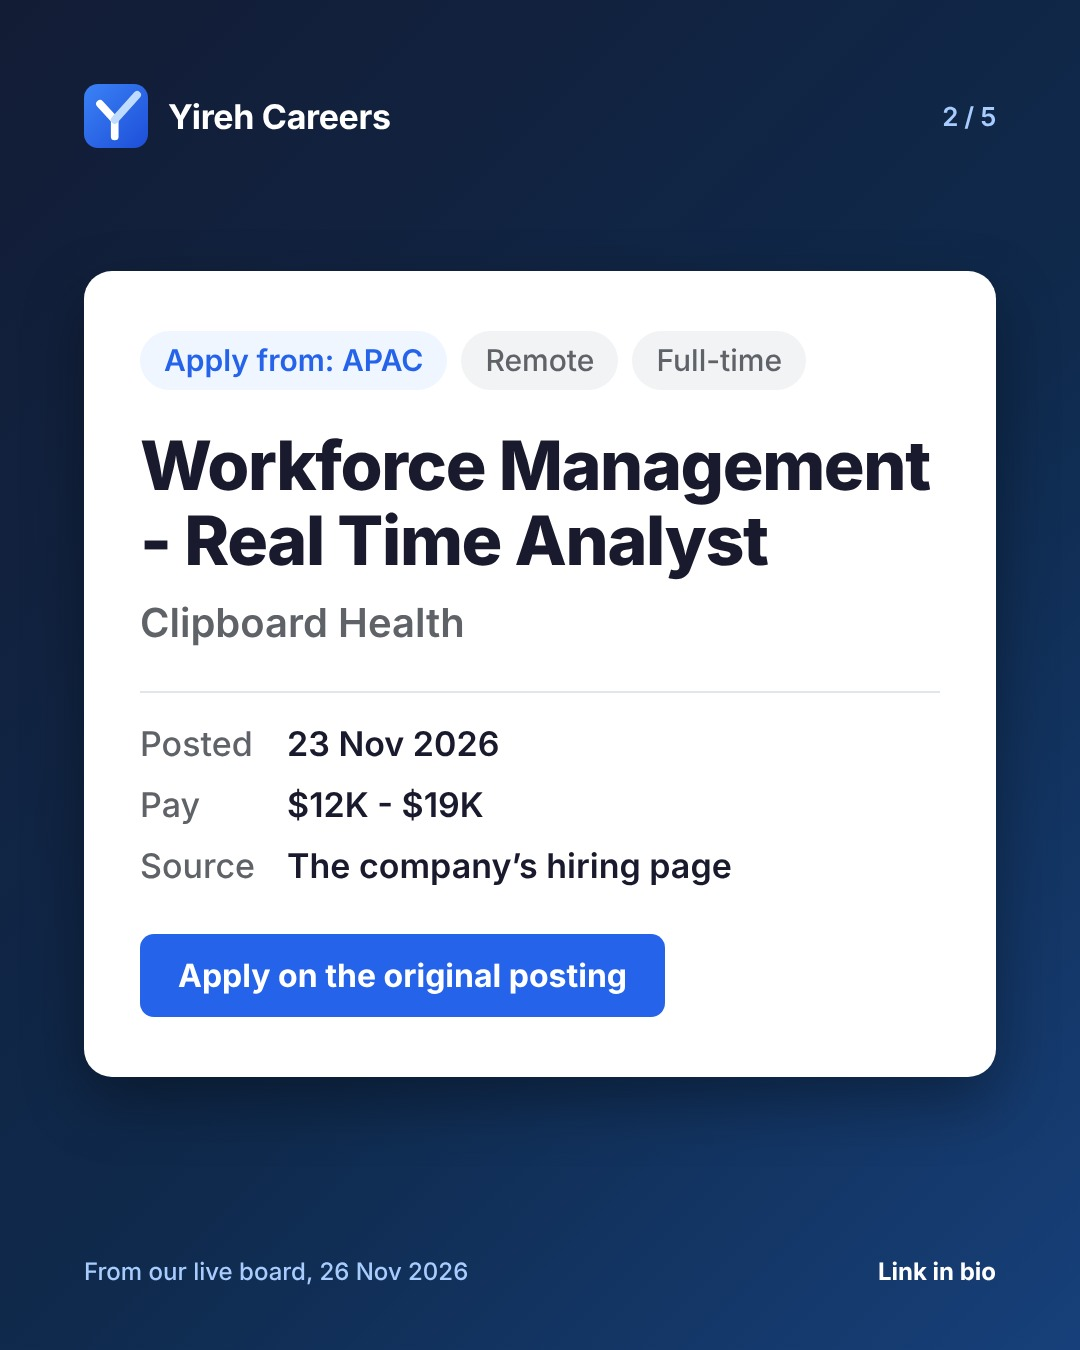
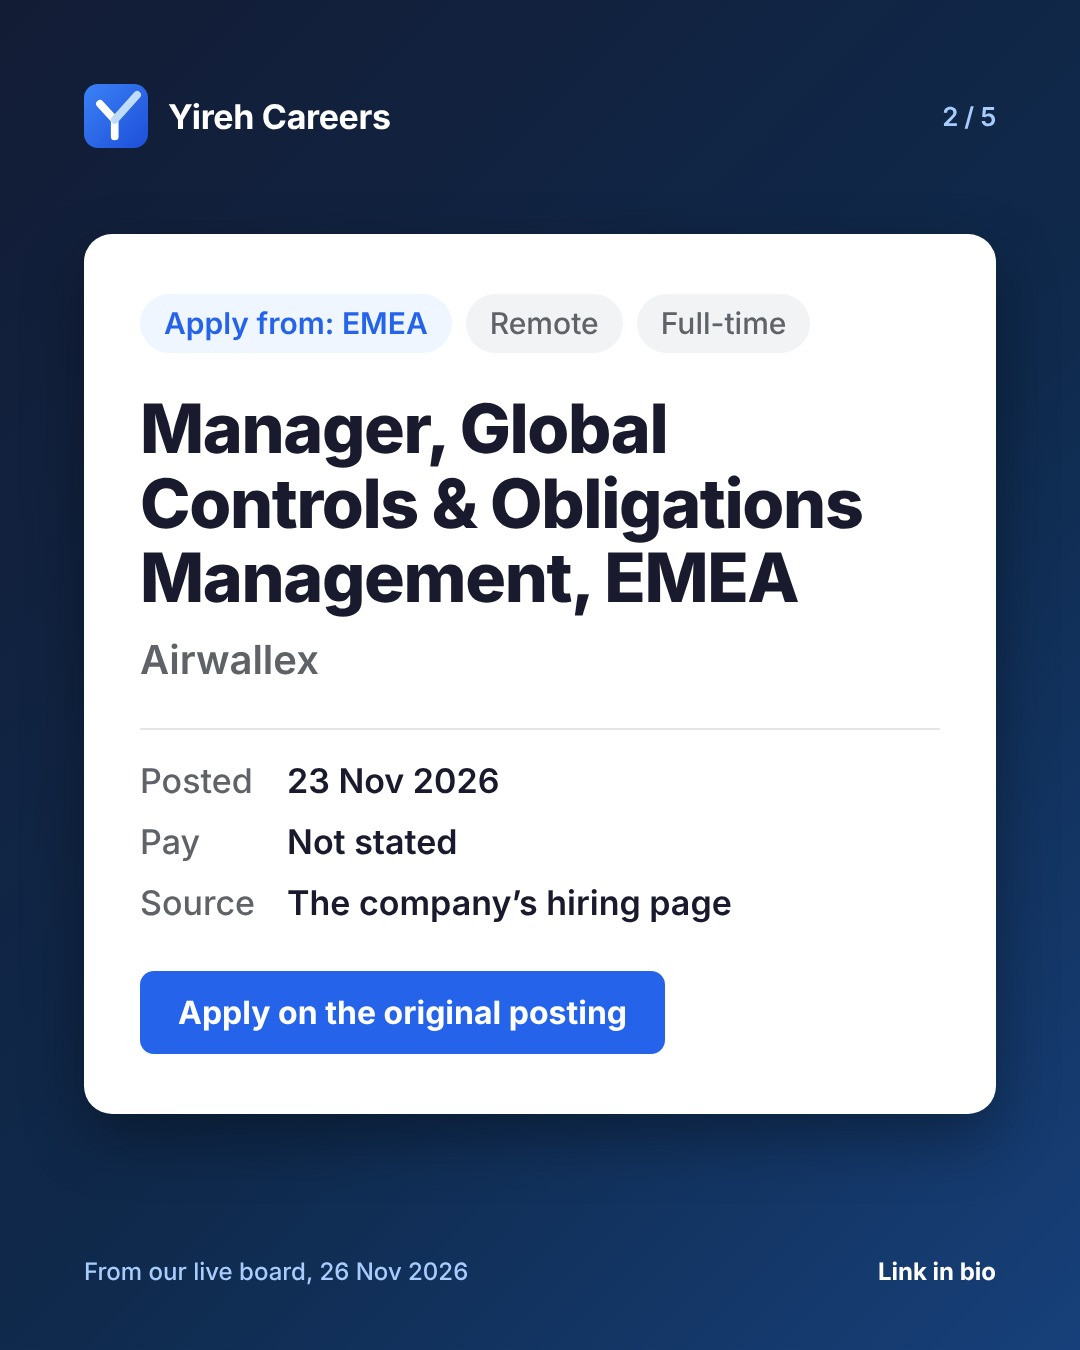
Social: after PRs 81-83 went live, lift exclusions and re-measure
- All four excluded jobs are fixed on the live feed (2 removed, Netlify
  'Location not specified', Canonical 'United States only'); exclusions lifted
- Calendar numbers re-measured 26 Nov 13:32 UTC: 36 open worldwide; the
  one-country share is now 1,225 of 1,987 ('about six in ten', was three in four)
- Supply notes updated (Canada 369 ... Indonesia 47)
- verify-open falls back to a plain page load when a page never goes quiet
- Week 1 re-rendered; 7 of 7 featured postings open

Claude-Session: https://claude.ai/code/session_01Q41EjuZWPZfwQtakLZ2AMt

Changed region(s): [[0.0611, 0.1556, 0.9472, 0.4978], [0.0611, 0.5289, 0.9472, 0.84]]

diff --git a/social/tools/verify-open.js b/social/tools/verify-open.js
@@ -30,7 +30,10 @@ const words = t => t.toLowerCase().replace(/[^a-z0-9 ]+/g, ' ').split(/\s+/).fil
       const page = await ctx.newPage();
       let check = { checked_open_on: today, ok: false };
       try {
-        const resp = await page.goto(j.sourceUrl, { waitUntil: 'networkidle', timeout: 45000 });
+        // Some hiring pages never go quiet (chat widgets, trackers): fall back to a plain page load.
+        let resp;
+        try { resp = await page.goto(j.sourceUrl, { waitUntil: 'networkidle', timeout: 30000 }); }
+        catch (e) { resp = await page.goto(j.sourceUrl, { waitUntil: 'domcontentloaded', timeout: 45000 }); await page.waitForTimeout(4000); }
         await page.waitForTimeout(1500);
         const text = (await page.innerText('body')).replace(/\s+/g, ' ');
         const need = words(j.title);

diff --git a/social/calendar/2026-12-01.md b/social/calendar/2026-12-01.md
@@ -35,7 +35,7 @@ Bio link (one per platform, so per-post clicks cannot be told apart): `https://y
 > So you don't spend an hour on one you can't apply for.
 > Link in bio.
 
-**On screen:** “Stop paying to look at remote jobs” / “Free to search · no account” / “Only the jobs open to where you live” / “19 open to applicants anywhere” / “From our live board, 26 Nov 2026” / “Link in bio” / “AI-generated presenter”
+**On screen:** “Stop paying to look at remote jobs” / “Free to search · no account” / “Only the jobs open to where you live” / “36 open to applicants anywhere” / “From our live board, 26 Nov 2026” / “Link in bio” / “AI-generated presenter”
 
 **Caption:**
 
@@ -66,7 +66,7 @@ Bio link (one per platform, so per-post clicks cannot be told apart): `https://y
 2. 3 role card(s) picked on the day from the live feed
 3. (cta) Find yours on the board — Type where you live and see only the jobs open to you.
 
-**Preview rendered 2026-11-26 12:53 UTC** (re-rendered on the post day): [`01.jpg`](../output/2026-12-02/w49-p2/01.jpg), [`02.jpg`](../output/2026-12-02/w49-p2/02.jpg), [`03.jpg`](../output/2026-12-02/w49-p2/03.jpg), [`04.jpg`](../output/2026-12-02/w49-p2/04.jpg), [`05.jpg`](../output/2026-12-02/w49-p2/05.jpg)
+**Preview rendered 2026-11-26 13:32 UTC** (re-rendered on the post day): [`01.jpg`](../output/2026-12-02/w49-p2/01.jpg), [`02.jpg`](../output/2026-12-02/w49-p2/02.jpg), [`03.jpg`](../output/2026-12-02/w49-p2/03.jpg), [`04.jpg`](../output/2026-12-02/w49-p2/04.jpg), [`05.jpg`](../output/2026-12-02/w49-p2/05.jpg)
 
 | Role in the preview | Company | Apply from | Posted | Pay | Posting open? |
 |---|---|---|---|---|---|
@@ -103,7 +103,7 @@ Bio link (one per platform, so per-post clicks cannot be told apart): `https://y
 4. (tip) Not clear? Ask first — Email the recruiter before you spend an hour on the form.
 5. (cta) Or start with the board — Tell it where you live — It shows only the jobs that say they're open to you.
 
-**Preview rendered 2026-11-26 12:53 UTC** (re-rendered on the post day): [`01.jpg`](../output/2026-12-03/w49-p3/01.jpg), [`02.jpg`](../output/2026-12-03/w49-p3/02.jpg), [`03.jpg`](../output/2026-12-03/w49-p3/03.jpg), [`04.jpg`](../output/2026-12-03/w49-p3/04.jpg), [`05.jpg`](../output/2026-12-03/w49-p3/05.jpg)
+**Preview rendered 2026-11-26 13:32 UTC** (re-rendered on the post day): [`01.jpg`](../output/2026-12-03/w49-p3/01.jpg), [`02.jpg`](../output/2026-12-03/w49-p3/02.jpg), [`03.jpg`](../output/2026-12-03/w49-p3/03.jpg), [`04.jpg`](../output/2026-12-03/w49-p3/04.jpg), [`05.jpg`](../output/2026-12-03/w49-p3/05.jpg)
 
 **Caption:**
 
@@ -130,11 +130,11 @@ Bio link (one per platform, so per-post clicks cannot be told apart): `https://y
 
 1. 1 role card(s) picked on the day from the live feed, open worldwide only
 
-**Preview rendered 2026-11-26 12:53 UTC** (re-rendered on the post day): [`01.jpg`](../output/2026-12-04/w49-p4/01.jpg)
+**Preview rendered 2026-11-26 13:32 UTC** (re-rendered on the post day): [`01.jpg`](../output/2026-12-04/w49-p4/01.jpg)
 
 | Role in the preview | Company | Apply from | Posted | Pay | Posting open? |
 |---|---|---|---|---|---|
-| [FP&A AI Research Contributor](https://jobs.ashbyhq.com/aptura/63f302ff-6699-4a48-9d4a-b259ec18d04d) | Aptura | Worldwide | 2026-11-15 | Not stated | yes (2026-11-26) |
+| [Security Engineer](https://trafilea.recruitee.com/o/security-engineer) | Trafilea | Worldwide | 2026-11-20 | Not stated | yes (2026-11-26) |
 
 **Caption:**
 
@@ -163,13 +163,13 @@ Bio link (one per platform, so per-post clicks cannot be told apart): `https://y
 2. 3 role card(s) picked on the day from the live feed
 3. (cta) Find yours on the board — Type where you live and see only the jobs open to you.
 
-**Preview rendered 2026-11-26 12:53 UTC** (re-rendered on the post day): [`01.jpg`](../output/2026-12-05/w49-p5/01.jpg), [`02.jpg`](../output/2026-12-05/w49-p5/02.jpg), [`03.jpg`](../output/2026-12-05/w49-p5/03.jpg), [`04.jpg`](../output/2026-12-05/w49-p5/04.jpg), [`05.jpg`](../output/2026-12-05/w49-p5/05.jpg)
+**Preview rendered 2026-11-26 13:32 UTC** (re-rendered on the post day): [`01.jpg`](../output/2026-12-05/w49-p5/01.jpg), [`02.jpg`](../output/2026-12-05/w49-p5/02.jpg), [`03.jpg`](../output/2026-12-05/w49-p5/03.jpg), [`04.jpg`](../output/2026-12-05/w49-p5/04.jpg), [`05.jpg`](../output/2026-12-05/w49-p5/05.jpg)
 
 | Role in the preview | Company | Apply from | Posted | Pay | Posting open? |
 |---|---|---|---|---|---|
+| [Manager, Global Controls & Obligations Management, EMEA](https://jobs.ashbyhq.com/airwallex/9d1f04bd-98a1-494d-a7a8-977892888fdd) | Airwallex | EMEA | 2026-11-23 | Not stated | yes (2026-11-26) |
 | [Workforce Management - Real Time Analyst](https://jobs.ashbyhq.com/clipboard/2dfae75c-66e8-4243-aa46-2f1c7238d942) | Clipboard Health | APAC | 2026-11-23 | $12K - $19K | yes (2026-11-26) |
 | [Lead Product Manager, Multimodal Clearing](https://job-boards.greenhouse.io/alpaca/jobs/6268872004) | Alpaca | Americas, European Union | 2026-11-23 | Not stated | yes (2026-11-26) |
-| [Sales Intern, Italian-Speaking](https://jobs.ashbyhq.com/Clera/1ff958ab-d887-4a6f-a504-c4c2664903c2) | Clera | Europe | 2026-11-20 | €24K - €26K | yes (2026-11-26) |
 
 **Caption:**
 
@@ -200,7 +200,7 @@ Bio link (one per platform, so per-post clicks cannot be told apart): `https://y
 4. (tip) A role you can't find — Look for the job on the company's careers site before you send anything.
 5. (cta) How our board works — We never charge you to apply — Every job on it opens its original posting, with the date it was posted.
 
-**Preview rendered 2026-11-26 12:53 UTC** (re-rendered on the post day): [`01.jpg`](../output/2026-12-07/w49-p6/01.jpg), [`02.jpg`](../output/2026-12-07/w49-p6/02.jpg), [`03.jpg`](../output/2026-12-07/w49-p6/03.jpg), [`04.jpg`](../output/2026-12-07/w49-p6/04.jpg), [`05.jpg`](../output/2026-12-07/w49-p6/05.jpg)
+**Preview rendered 2026-11-26 13:32 UTC** (re-rendered on the post day): [`01.jpg`](../output/2026-12-07/w49-p6/01.jpg), [`02.jpg`](../output/2026-12-07/w49-p6/02.jpg), [`03.jpg`](../output/2026-12-07/w49-p6/03.jpg), [`04.jpg`](../output/2026-12-07/w49-p6/04.jpg), [`05.jpg`](../output/2026-12-07/w49-p6/05.jpg)
 
 **Caption:**
 

diff --git a/social/calendar/2026-12-08.md b/social/calendar/2026-12-08.md
@@ -2,7 +2,7 @@
 
 Status: **DRAFT for KT's approval (Phase 1: approve the week). Nothing is scheduled. Audience: people outside the US, wherever they live (KT, 26 Nov 2026). The plan for this week is revised on Monday 7 Dec with week 1's results.**  
 Numbers measured on the live board: 2026-11-26 (every number is re-measured on the post day; the checker blocks scheduling until it is).  
-This week's test: Video opening C' (a number: 'three in four remote jobs are open to one country') against B; and a role carousel whose cover leads with a number (Wed) against the plain cover of week 1.  
+This week's test: Video opening C' (a number: 'six in ten remote jobs on our board are open to one country') against B; and a role carousel whose cover leads with a number (Wed) against the plain cover of week 1.  
 Source of truth: `2026-12-08.posts.json` (this page is generated by `social/tools/build_calendar.py`).
 
 | Day | Time (UTC) | Post | Pillar | Format | Platforms | Guardrails |
@@ -20,7 +20,7 @@ Bio link (one per platform, so per-post clicks cannot be told apart): `https://y
 
 - **Time:** 15:00 UTC (Mexico City 09:00 · Toronto 10:00 · São Paulo 12:00 · London 15:00 · Berlin 16:00 · Lagos 16:00 · Nairobi 18:00 · Delhi 20:30 · Manila 23:00)
 - **Platforms:** tiktok, instagram, facebook · **Pillar:** proof · **Format:** video
-- **Hook:** Almost three in four remote jobs on our board are open to people in just one country.
+- **Hook:** About six in ten remote jobs on our board are open to people in just one country.
 - **Variable tested:** Opening line: our own number, with no country named, against week 1's cost hook. Body and footage unchanged.
 - **Visuals:** 0-5 s presenter with the number on screen. 5-20 s live-board footage (worldwide demo, no country shown). 20-27 s presenter close. Captions burned in.
 - **Production:** As week 1 (about 54 render credits plus about 30 voice credits), or the free screen-led fallback.
@@ -28,18 +28,18 @@ Bio link (one per platform, so per-post clicks cannot be told apart): `https://y
 
 **Script (spoken):**
 
-> Almost three in four remote jobs on our board... are open to people in just one country.
+> About six in ten remote jobs on our board... are open to people in just one country.
 > We counted.
 > If you live somewhere else, that's a lot of applications going nowhere.
 > So tell Yai-ray Careers where you live... and it shows you only the remote jobs that say they're open to you.
 > Every job opens its original posting. It's free, and we never charge you to apply.
 > Link in bio.
 
-**On screen:** “1,287 of 1,759 remote jobs: open to one country only” / “From our live board, 26 Nov 2026” / “We counted.” / “Tell it where you live” / “Link in bio” / “AI-generated presenter”
+**On screen:** “1,225 of 1,987 remote jobs: open to one country only” / “From our live board, 26 Nov 2026” / “We counted.” / “Tell it where you live” / “Link in bio” / “AI-generated presenter”
 
 **Caption:**
 
-> Almost three in four remote jobs on our board are open to people in just one country. We counted.
+> About six in ten remote jobs on our board are open to people in just one country. We counted.
 >
 > So the board asks where you live, and shows only the jobs that say they're open to you, each linked to its original posting.
 >
@@ -68,7 +68,7 @@ Bio link (one per platform, so per-post clicks cannot be told apart): `https://y
 
 **Caption:**
 
-> Most remote jobs are open to one country. These aren't.
+> Most remote jobs on our board are open to one country. These aren't.
 >
 > Three roles open worldwide or across a whole region, each posting opened today to check it's still live. Swipe for where you can apply from, the date and the pay, if stated.
 >

diff --git a/social/brand-guide.md b/social/brand-guide.md
@@ -5,7 +5,7 @@ Status: **PROPOSED** (Phase 0). Binding rules come from `CLAUDE.md` and `drafts/
 ## 1. Who we are talking to
 **People outside the US, wherever they live** (KT, 26 Nov 2026; `drafts/decisions/2026-11-26-who-to-target.md`): Canada, the UK and Europe, Latin America, South Asia, South-East Asia and Africa. US viewers are welcome but not chased. Often on a phone, often reading in a second language, tired of applying to "remote" jobs that turn out to be closed to them, and wary of scams. Their words: legit, real, scam, fake, "remote but not for me", tired, 100+ applications. Ours ("verified", "eligibility", "classifier") are weaker; use theirs. (Evidence: `drafts/marketing/audience-research-and-icp.md`, `research/2026-11-26-niche.md`, `research/2026-11-26-niche-outside-us.md`.)
 
-**Supply differs a lot by country** (26 Nov: Canada 193, UK 146, most of the EU and India, Mexico and Brazil about 55-85, Africa and South-East Asia about 26-38, worldwide 19). So never imply plenty for everyone: no board-wide totals as a promise; prefer numbers true for every viewer (open worldwide, open beyond one country). See `research/2026-11-26-scope-outside-us.md`.
+**Supply differs a lot by country** (26 Nov, after the refresh with PRs 81-83: Canada 369, UK 294, Germany 171, India 159, Brazil 153, Mexico 133, Philippines 90, Nigeria 74, South Africa 73, Kenya 68, Ghana 67, Indonesia 47; worldwide 36). So never imply plenty for everyone: no board-wide totals as a promise; prefer numbers true for every viewer (open worldwide, open beyond one country). See `research/2026-11-26-scope-outside-us.md`.
 
 ## 2. Voice
 - **A kind, capable person across a table.** Short sentences, plain words, contractions, "you" and "we". Calm, a little warm. At most one exclamation mark in a post.

diff --git a/social/research/2026-11-26-scope-outside-us.md b/social/research/2026-11-26-scope-outside-us.md
@@ -2,6 +2,8 @@
 
 **Status:** KT decided on 26 Nov 2026: "people outside the US, wherever they live" (`drafts/decisions/2026-11-26-who-to-target.md`, APPROVED). Applied the same day: role picker scope `outside_us` (default), posting time 15:00 UTC, cover wording "across a whole region", and the `w49-p1` video line fixed as proposed below (awaiting KT's yes with the week). Niche research for these regions: `2026-11-26-niche-outside-us.md`. Labels as in the other research notes.
 
+> **Update, 26 Nov 13:32 UTC** (after PRs 81-83 went live): 1,987 jobs; Canada 369, UK 294, Germany 171, India 159, Brazil 153, Mexico 133, Philippines 90, Nigeria 74, South Africa 73, Kenya 68, Ghana 67, Indonesia 47, worldwide 36; US 689. Africa and South-East Asia roughly doubled. The table below is the morning's measurement.
+
 ## 1. Where our supply is (measured on the live feed, 26 Nov 2026, the site's own "open to" rule) [Established]
 | Region | Jobs open to (example countries) |
 |---|---|
